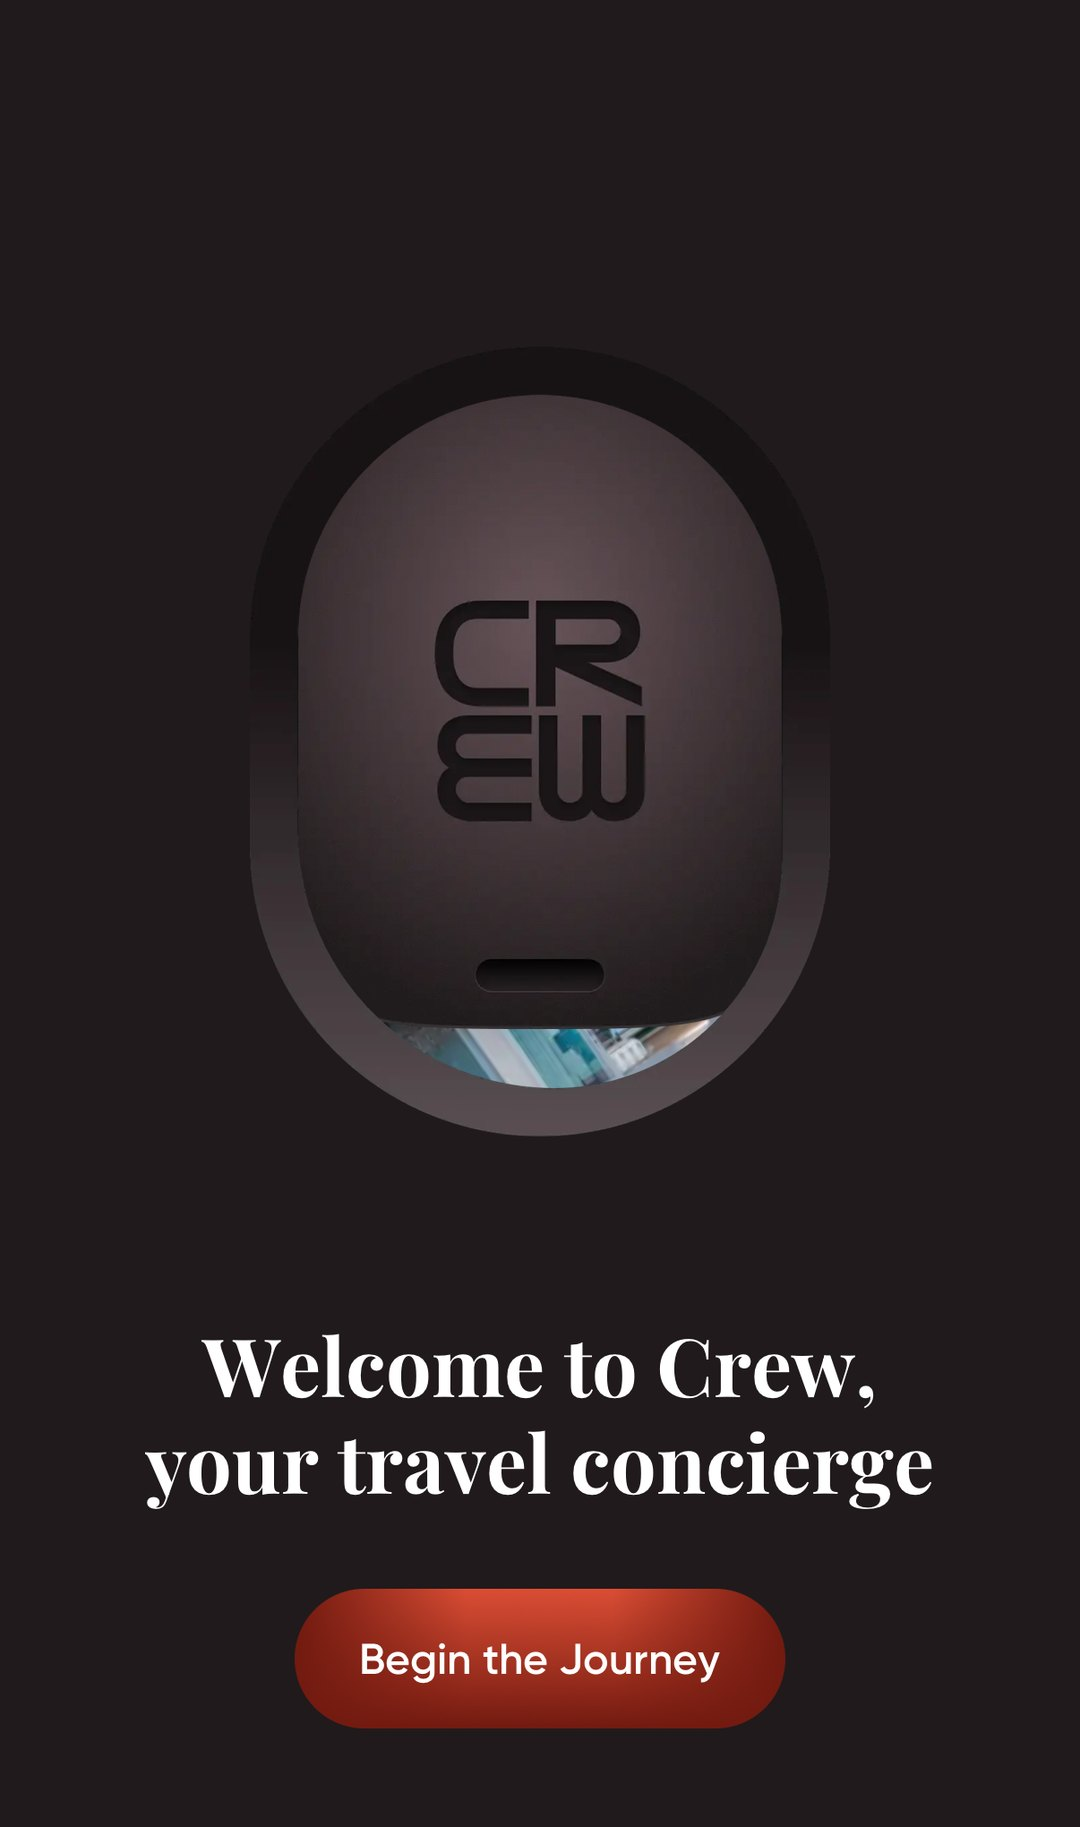
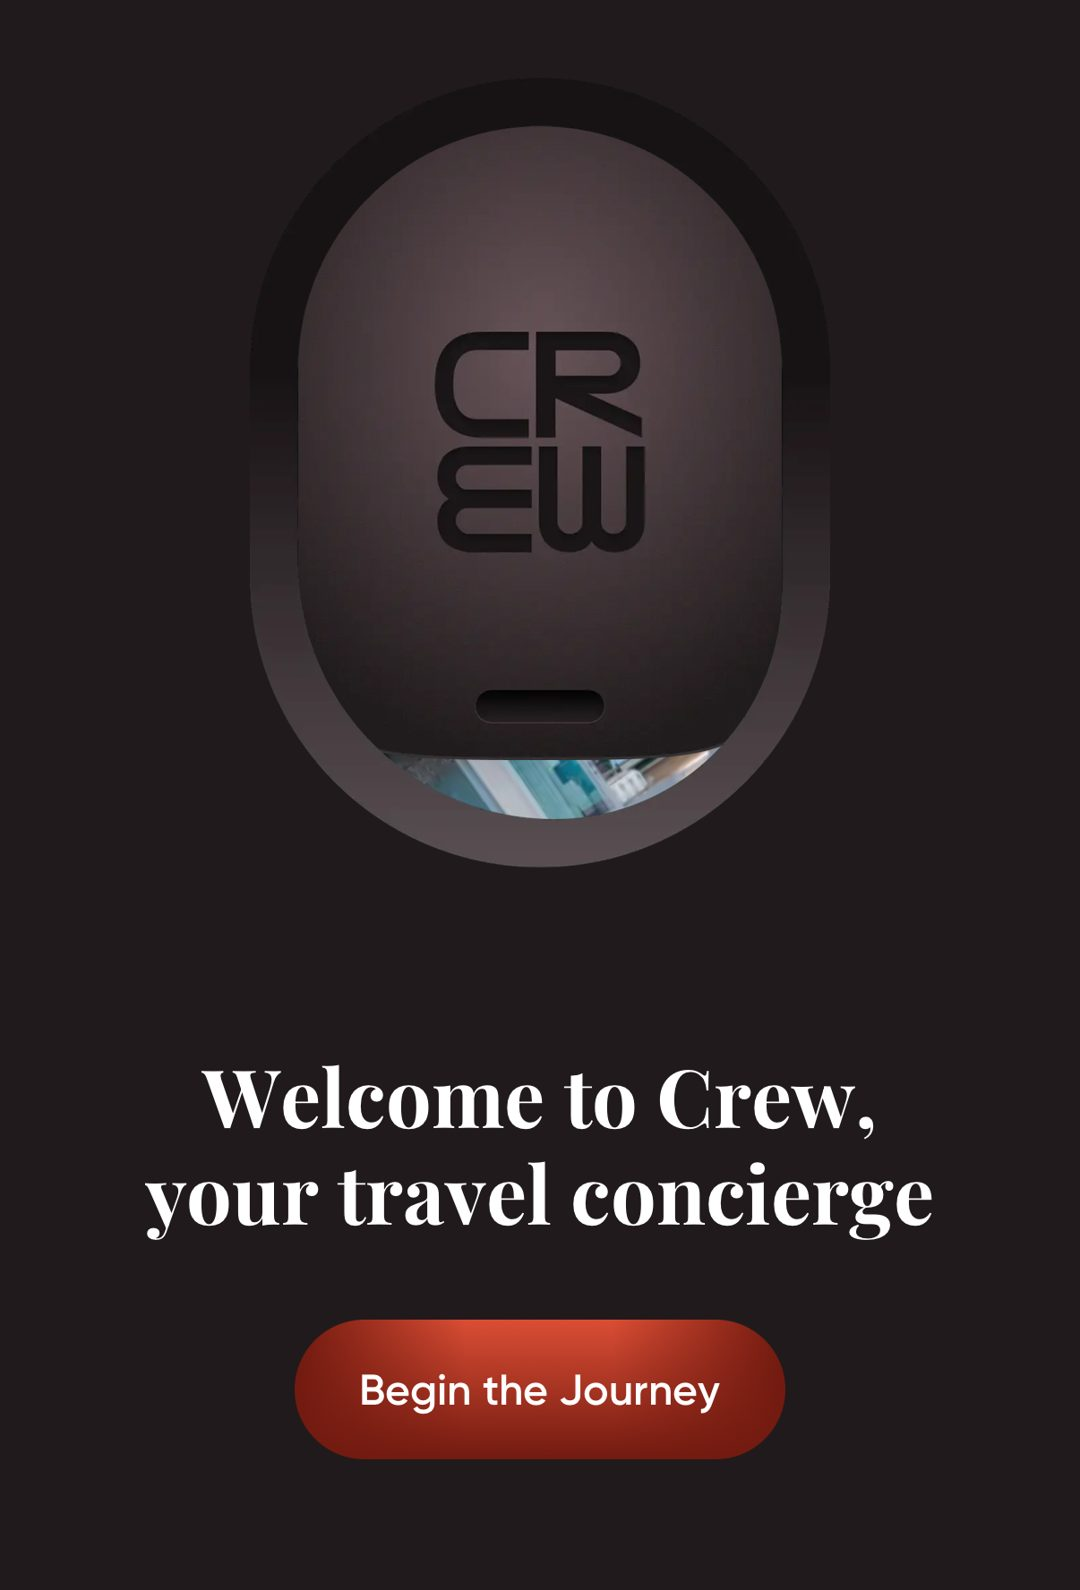
Crop the hero instead of shrinking it
Shrinking the display width to 232px bought back height by making the
subject small, which is the wrong trade for the one image that sets the
first impression — it ended up reading smaller than the evidence
screenshots below it.

Recut from the original instead. The window graphic starts at y=708 and
the button ends at y=2188, so the crop takes a matched 148px margin
either side and drops the empty screen above and below: 1080x1827
becomes 1080x1590. Display width goes back up, to 330px.

Net result is a hero 40px wider than it ever was and no taller, with
the subject filling the frame rather than floating in it.

The playbook gains the rule and the reason, plus the caution that cost
a pass here: measure where the subject actually ends before choosing a
crop line. The first attempt guessed and cut the button in half.

Changed region(s): [[0.2444, 0.0616, 0.7639, 0.6472], [0.1222, 0.678, 0.8556, 0.9553], [0.2139, 0.339, 0.275, 0.4314]]

diff --git a/styles.css b/styles.css
@@ -689,10 +689,11 @@ figcaption{font-size:13px;line-height:1.55;color:var(--muted);margin-top:11px}
   .art-body p{font-size:16px}
   .fig-phone{max-width:100%}
 }
-/* The hero is an establishing shot, not evidence — it earns less room than the
-   screenshots that carry an argument later in the piece. Kept small so the meta
-   strip and the opening paragraph are reachable without scrolling. */
-.art-hero{max-width:232px;margin:26px auto 0}
+/* The hero is the largest single image on the page — it should not read as smaller
+   than the evidence screenshots further down. Height is bought back by cropping the
+   source rather than by shrinking the display width: trim the empty screen above and
+   below the subject, never scale the whole thing down. */
+.art-hero{max-width:330px;margin:26px auto 0}
 
 /* ---- WRITING INDEX (/writing/) ----
    The list of long-form pieces. Entries that exist are links; entries still being

diff --git a/writing/crew/index.html b/writing/crew/index.html
@@ -43,7 +43,7 @@
       <h1 class="art-title">You Can't Hand Off What You Still Have to Hold</h1>
       <p class="art-sub">A product case study on CREW, Swiggy's travel concierge.</p>
       <figure class="fig-phone art-hero">
-        <img src="images/crew-hero.jpg" alt="CREW's opening screen: the wordmark inside an aircraft window, above &ldquo;Welcome to Crew, your travel concierge&rdquo; and a Begin the Journey button." width="1080" height="1827" decoding="async" />
+        <img src="images/crew-hero.jpg" alt="CREW's opening screen: the wordmark inside an aircraft window, above &ldquo;Welcome to Crew, your travel concierge&rdquo; and a Begin the Journey button." width="1080" height="1590" decoding="async" />
       </figure>
       <div class="art-meta">
         <div class="am-cell"><div class="am-k">Role</div><div class="am-v">Product analysis</div></div>

diff --git a/ARTICLE_PLAYBOOK.md b/ARTICLE_PLAYBOOK.md
@@ -248,6 +248,33 @@ im = Image.open(src).convert('RGB').crop((0, top, 1080, top + H))
 im.save(dst, 'JPEG', quality=82, optimize=True, progressive=True)
 ```
 
+### The hero: crop it, don't shrink it
+
+The hero is the largest single image on the page and sets the reader's first impression.
+It must not look smaller than the evidence screenshots further down — that reads as an
+afterthought rather than an opening.
+
+So when the hero takes up too much vertical space, **crop the source, never reduce the
+display width.** Scaling it down fixes the height by making the subject small, which is
+the wrong trade. Cropping fixes the height while making the subject *bigger* in frame.
+
+A phone screenshot usually has a lot of empty screen above and below the thing worth
+seeing. Measure where the subject actually starts and ends, then cut with a matched
+margin on each side of it:
+
+```python
+# Example from the CREW hero: window graphic starts at y=708, button ends at y=2188.
+# 148px of margin on each side, cropped out of the 1206x2622 original.
+o.crop((0, 560, 1206, 2336)).resize((1080, 1590)).save(dst, 'JPEG', quality=82, ...)
+```
+
+**Check the bottom edge after cropping.** The first attempt at this cut the "Begin the
+Journey" button in half, because the crop line was guessed rather than measured. Find
+the subject's real extents in pixels before choosing the numbers.
+
+`.art-hero` renders at 330px. Update the `<img>` `width`/`height` attributes to the new
+dimensions whenever you recrop, or the page reserves the wrong amount of space.
+
 ### The rule that matters for `fig-row`
 
 **Every image in a `fig-row` must be cut to the same pixel dimensions.**
